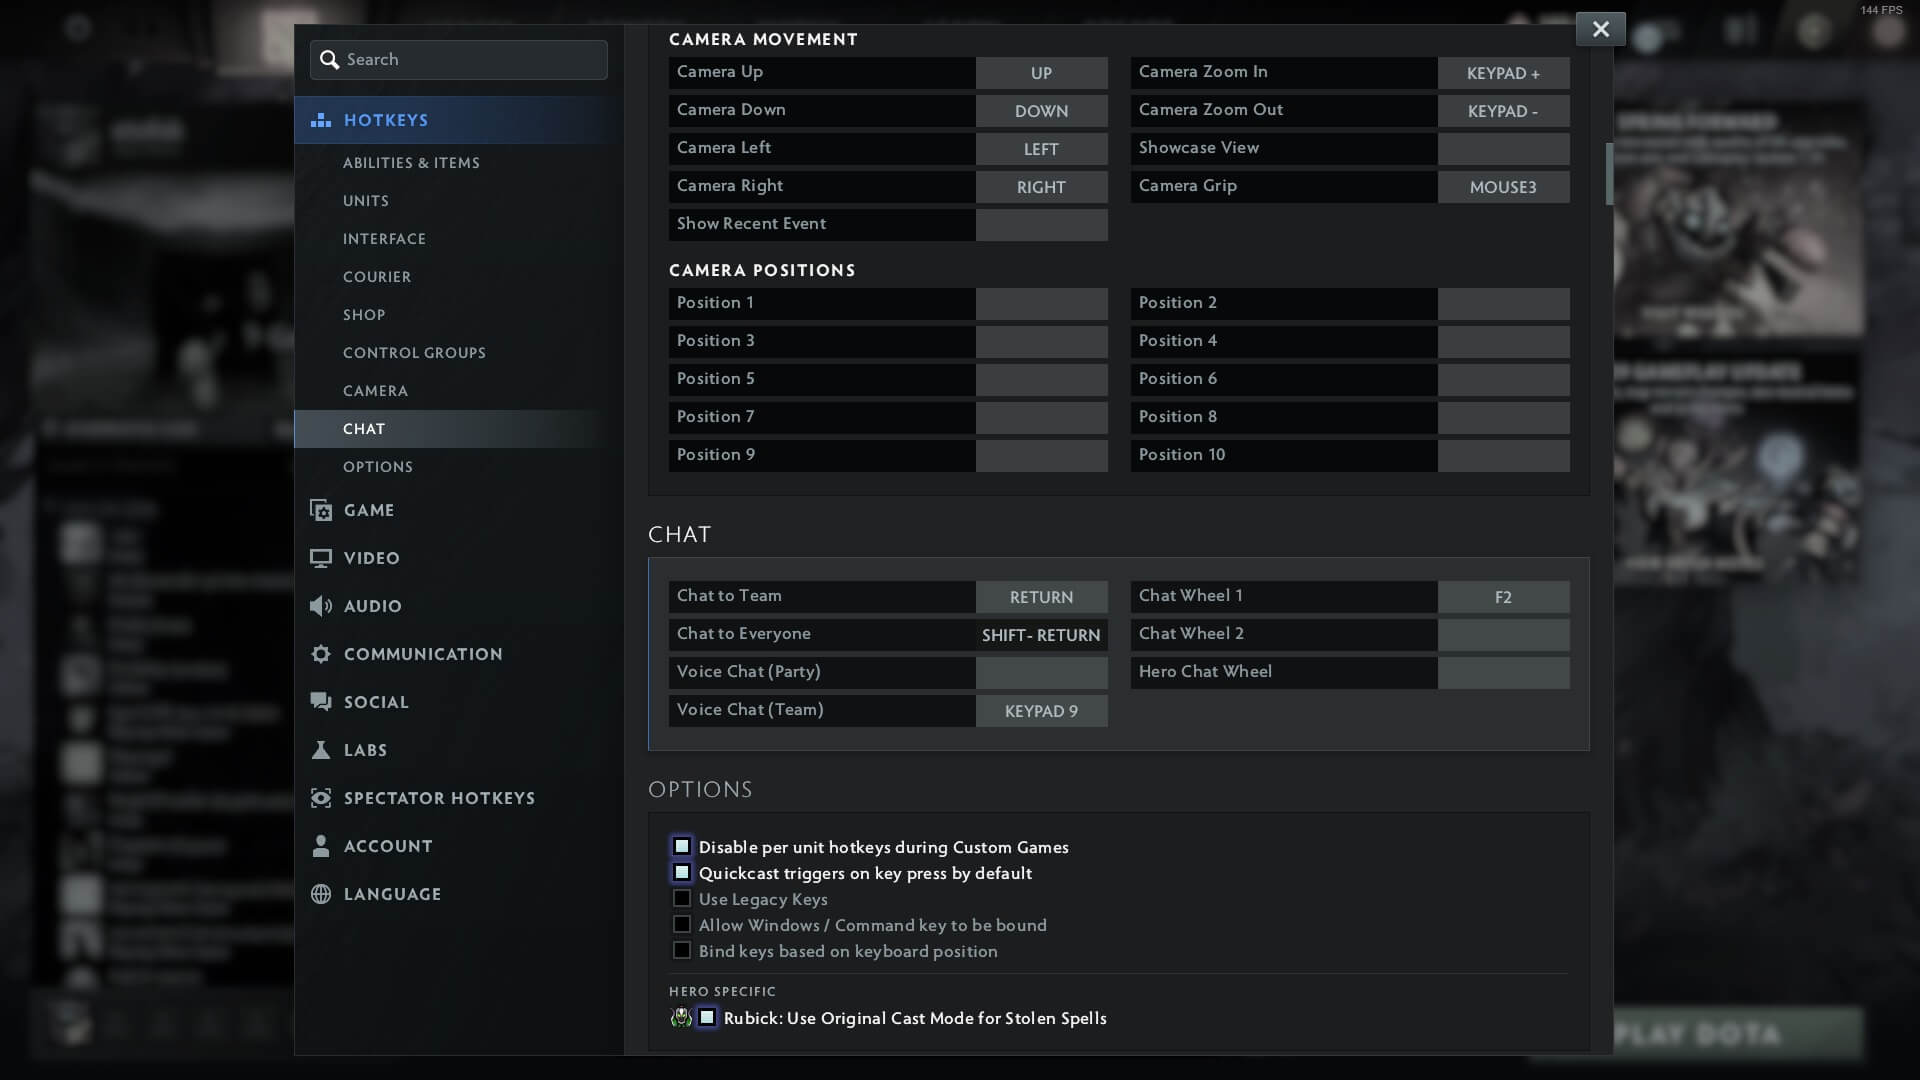
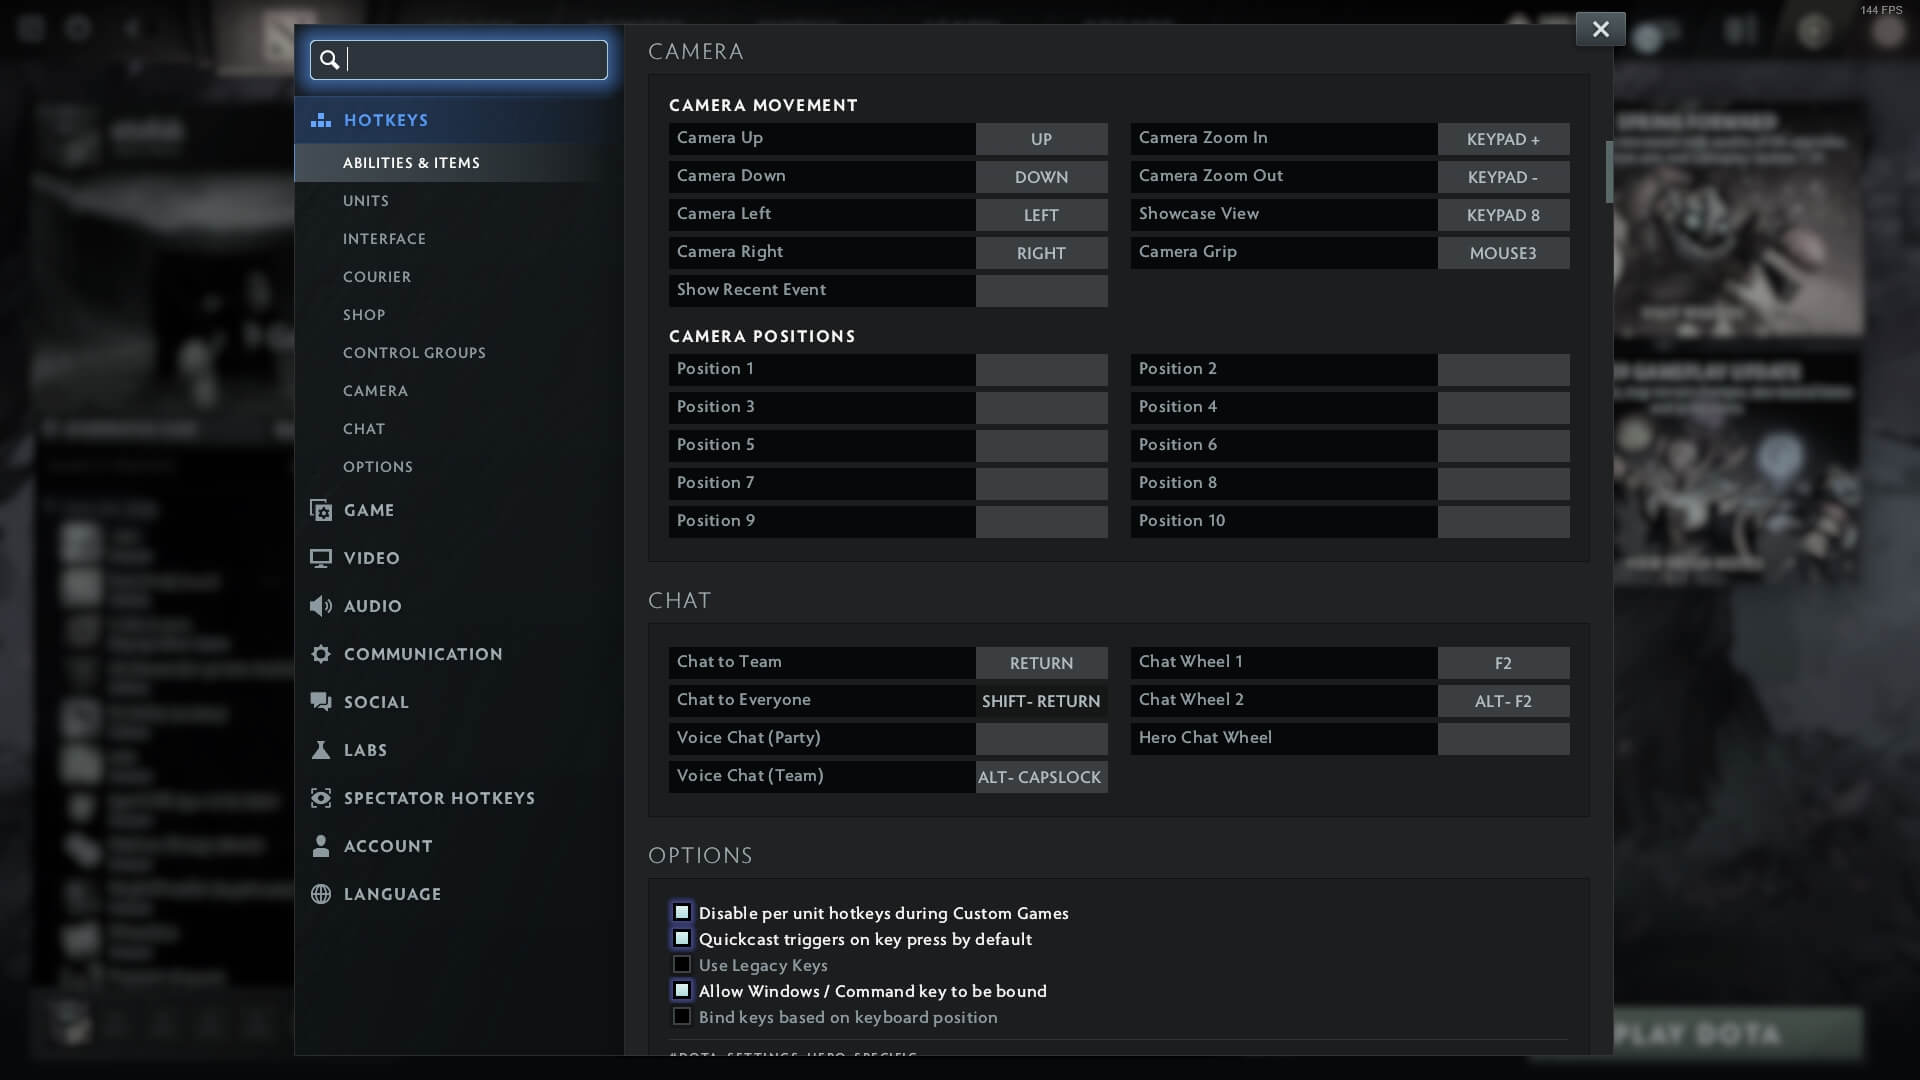
update

diff --git a/web/index.html b/web/index.html
@@ -116,11 +116,11 @@
         <div class="separator"></div>
 
         <li><b>Select Courier:</b> <kbd>F1</kbd></li>
-        <li><b>Quickbuy:</b> <kbd>B</kbd></li>
-        <li><b>Courier Deliver:</b> <kbd>N</kbd></li>
-        <li><b>Courier Burst:</b> <kbd>M</kbd></li>
-        <li><b>Buy Sticky:</b> <kbd>H</kbd></li>      
-        <li><b>Open Shop:</b> <kbd>Y</kbd></li>
+        <li><b>Open Shop:</b> <kbd>Alt</kbd>+<kbd>1</kbd></li>
+        <li><b>Quickbuy:</b> <kbd>Alt</kbd>+<kbd>2</kbd></li>
+        <li><b>Courier Deliver:</b> <kbd>Alt</kbd>+<kbd>3</kbd></li>
+        <li><b>Courier Burst:</b> <kbd>Alt</kbd>+<kbd>4</kbd></li>
+        <li><b>Buy Sticky:</b> <kbd>Y</kbd></li>      
 
         <div class="separator"></div>
 
@@ -684,47 +684,60 @@
 
       <h2>Shop & Courier<img class="heroicon" src="assets/images/neutralicon/shopkeeper.jpg" alt=""></h2>
              
-      <ul>
-        <li><b>Quickbuy:</b> <kbd>B</kbd></li>
-        <li><b>Courier Deliver:</b> <kbd>N</kbd></li>
-        <li><b>Courier Burst:</b> <kbd>M</kbd></li>
-        <li><b>Buy Sticky:</b> <kbd>H</kbd></li>      
-        <li><b>Open Shop:</b> <kbd>Y</kbd></li>
-        <li><b>Select Courier:</b> <kbd>F1</kbd></li>
-      </ul>
+      <p>
+        <span class="red">Limitation?</span><br><br>
+        A lot of keys don't work for <act>Courier Deliver</act> and <act>Courier Boost</act> while the 'Search' input element of <act>Shop</act> is in focus.
 
-      <p class="mt2">
-        <kbd>B</kbd><act>Quick<b>B</b>uy</act> is next to the right of <kbd>V</kbd><act>Neutral Item</act>
+        <img class="" src="assets/images/options/options-shop-search-bar.jpg" alt="">
+
+        Things like numbers <kbd>1</kbd><kbd>2</kbd><kbd>3</kbd> go into the 'Search' bar as text:<br><br>
+
+        <img class="" src="assets/images/options/options-shop-number-2.jpg" alt="">
+
+        <img class="" src="assets/images/options/options-shop-number-7.jpg" alt="">
+
+        However, there is no reason for keys like <kbd>F1</kbd><kbd>F2</kbd><kbd>F3</kbd> or their <kbd>Alt</kbd> variations to behave like this. But they do.
       </p>
 
       <p class="mt2">
-        <kbd>N</kbd><act>Courier Deliver</act> is next to the right of <kbd>B</kbd><act>Quick<b>B</b>uy</act><br>
+        This matters because we have to <b>close the shop window</b> before we can use these hotkeys.<br>
+        Alternatively, we can disable <act>Shop Search Gets Focus On Open</act><br>
+        I personally did the latter:
       </p>
 
-      <p class="mt2">
-        <kbd>M</kbd><act>Courier Boost</act> is next to the right of <kbd>N</kbd><act>Courier Deliver</act><br>
-      </p>      
-
-      <p class="mt2">
-        We've built the following pattern:<br>
-        <act>Quick<b>B</b>uy</act> → <act>Courier Deliver</act> → <act>Courier Boost</act></act>
-      </p>
+      <img class="" src="assets/images/options/options-shopsearchgetsfocusonopen.jpg" alt="">
 
       <div class="separator mt2"></div>      
 
       <p class="mt2">
-        <kbd>H</kbd><act>Buy Sticky</act> is above <kbd>B</kbd><act>Quick<b>B</b>uy</act><br>
-        Think of it as an appendix to the <kbd>B</kbd> → <kbd>N</kbd> → <kbd>M</kbd> pattern.</act>
+        Now, there are many different configurations for all-things-shop.<br>
+        This is what I'm currently using.<br>
       </p>
 
+      <ul>
+        <li><b>Select Courier:</b> <kbd>F1</kbd></li>
+        <li><b>Open Shop:</b> <kbd>Alt</kbd>+<kbd>1</kbd></li>
+        <li><b>Quickbuy:</b> <kbd>Alt</kbd>+<kbd>2</kbd></li>
+        <li><b>Courier Deliver:</b> <kbd>Alt</kbd>+<kbd>3</kbd></li>
+        <li><b>Courier Burst:</b> <kbd>Alt</kbd>+<kbd>4</kbd></li>
+        <li><b>Buy Sticky:</b> <kbd>Y</kbd></li>      
+      </ul>
+
       <p class="mt2">
-        <kbd>Y</kbd><act>Open Shop</act> is just a key that's left.<br>
-        Anything else either too far, or doesn't make sense to me.
+        In any case, we want the following pattern to be easy:<br>
+        <act>QuickBuy</act> → <act>Courier Deliver</act> → <act>Courier Boost</act>
       </p>
+
+      <div class="separator mt2"></div>
       
       <p class="mt2">
         <kbd>F1</kbd><act>Select Courier</act> is near control groups — makes sense as a "Select" key.<br>
-        <span class="smaller">But it can be any key in my opinion.</span><br>
+        In reality, it's pretty rare we need to control the courier, so the hotkey can be anything.
+      </p>
+            
+      <p class="mt2">
+        <kbd>Y</kbd><act>Buy Stick<b>y</b></act> is not used very often, but I like having hotkeys for everything.<br>
+        It used to be a much more frequent key when we weren't getting free <spell>Teleport Scrolls</spell><img class="heroicon" src="assets/images/itemicon/teleportscroll.jpg" alt=""> on death.
       </p>
       
       <div class="separator mt2"></div>
@@ -758,22 +771,20 @@
 
       <ul>
         <li><b>Chat Wheel:</b> <kbd>F2</kbd></li>
+        <li><b>Chat Wheel:</b> <kbd>F2</kbd>+<kbd>Alt</kbd></li>
       </ul>
-
-      <p>I never use <act>Chat Wheel 2</act>, which is probably a skill issue.</p>
-      <p>For it just set the next available <kbd>F-key</kbd> like <kbd>F3</kbd>.</p>
 
     </div>
 
     <!-- --- --- --- -->
     <div class="wrap-section-block">
 
-      <h2>Chat Wheel Setup</h2>
+      <h2>Chat Wheel 1 Setup</h2>
         
       <p>Over a decade I figured this is <b>the</b> required setup to play.</p>
       <p>I absolutely, desperately want these call-outs on hand.</p>
     
-      <img class="" src="assets/images/options/options-chat-wheel-full.jpg" alt=""> 
+      <img class="" src="assets/images/options/options-chat-wheel-full-01.jpg" alt=""> 
 
       <p class="mt2">Towards the top I have progressively "aggressive" call-outs.</p>
       <p>Towards the bottom I have progressively "defensive" call-outs.</p>
@@ -834,8 +845,22 @@
 
       <p class="mt2">Use with <act>Fight under tower</act>, <act>Get back</act> and <act>Group Up</act> to bring your team into safety.</p>
 
+    </div>   
+
+    <!-- --- --- --- -->
+    <div class="wrap-section-block">
+
+      <h2>Chat Wheel 2 Setup</h2>
+        
+      <p>Exclusively flavor and emotions sink.</p>
+      <p>Use whatever you like.</p>
+    
+      <img class="" src="assets/images/options/options-chat-wheel-full-02.jpg" alt=""> 
+
     </div>
 
+
+    <!-- -- -->
     <div class="wrap-section-block">
 
       <h2>Camera Grip & Edge Pan</h2>
@@ -844,7 +869,7 @@
 
       <p>Especially so, if your mouse sensitivity is low (<1000).</p>
 
-      <p class="mt2">I have <act>Edge Pan</act> disabled for years, and there are good reasons for it.</p>
+      <p class="mt2">I have <act>Edge Pan</act> disabled for years.</p>
 
       <img class="" src="assets/images/options/edgepan.jpg" alt=""> 
 
@@ -854,31 +879,40 @@
 
       <p class="mt2">Having <act>Edge Pan</act> disabled makes it easier to swing your cursor to the top edge of your screen without your camera moving in a disorienting way.</p>
 
-      <div class="separator mt2"></div>
+      <p class="mt2">
+        Now, I'm not <i>against</i> <act>Edge Pan</act>.<br>
+        I just don't use it.
+      </p>
+
+    </div>  
+
+
+    <div class="wrap-section-block">
+
+      <h2>Portrait Clicking</h2>
 
       <p class="mt2">Here's something very interesting.</p>
       
       <p class="mt2">You <b>can</b> use spells and items on <b>allies</b> via portrait clicks.</p>
-      <p>You <b>can't</b> use spells or items on <b>enemies</b>. That would be too ridiculous.</p>
-      <p class="mt2">What you can <b>also do</b> — is issue <act>Attack</act> commands.</p>
+      <p>You <b>can't</b> use spells or items on <b>enemies</b>. That would be ridiculous.</p>
+      <p class="mt2">What you <b>can also do</b> — is issue <act>Attack</act> commands.</p>
 
       <p class="mt2"><span class="red">Oversight?</span><br>
-        Not sure if intended: you <b>can</b> issue attack commands, but you <b>can't</b> "right click" top bar portraits (no effect).
+        Not sure if intended: you <b>can</b> issue attack commands, but you <b>can't</b> right-click top bar portraits (it selects).
       </p>
 
       <div class="separator mt2"></div>
 
-      <p class="mt2">"Attacking" an enemy hero <b>draws creep aggro</b>.</p>
-      <p>And you can draw creep aggro by "attacking" <b>any hero</b> — on any lane.</p>
+      <p class="mt2">Attacking an enemy hero <b>draws creep aggro</b>.</p>
+      <p>And you can draw creep aggro by issuing an attack on <b>any hero</b> — on any lane.</p>
 
-      <p class="mt2">This is obviously omega useful on<br>
+      <p class="mt2">This is obviously extremely useful on heroes that benefit from creeps attacking them:<br>
         <spell>Axe</spell><img class="heroicon" src="assets/images/heroicon/axe.jpg" alt=""> because of <spell>Counter Helix</spell><img class="heroicon" src="assets/images/spellicon/counterhelix.jpg" alt="">, <br>
         <spell>Timbersaw</spell><img class="heroicon" src="assets/images/heroicon/timbersaw.jpg" alt=""> because of <spell>Reactive Armor</spell><img class="heroicon" src="assets/images/spellicon/reactivearmor.jpg" alt=""> and <br>
         <spell>Legion Commander</spell><img class="heroicon" src="assets/images/heroicon/legioncommander.jpg" alt=""> because of <spell>Moment of Courage</spell><img class="heroicon" src="assets/images/spellicon/momentofcourage.jpg" alt="">.</p>
 
         <p class="mt2">
           Aggro manipulation is a very important mechanic in this game. <br>
-          But I digress.
         </p>
 
     </div>   
@@ -895,11 +929,11 @@
 
       <p class="mt2">You might want to use <act>Auto Attack: Always</act> in the early game for 'Cancel Spam' last hitting.</p>
 
-      <p class="mt2">I personally don't bother with it.</p>
+      <p><span class="smaller">I personally don't bother with it.</span></p>
 
       <img class="" src="assets/images/options/toggleautoattack.jpg" alt=""> 
 
-      <p>You definitely want to enable auto attack for illusion based heroes such as <spell>Phantom Lancer</spell><img class="heroicon" src="assets/images/heroicon/phantomlancer.jpg" alt=""> and <spell>Naga Siren</spell><img class="heroicon" src="assets/images/heroicon/nagasiren.jpg" alt="">, so that the illusions auto attack creeps.</p>
+      <p>You definitely want to enable auto attack for illusion based heroes such as <spell>Phantom Lancer</spell><img class="heroicon" src="assets/images/heroicon/phantomlancer.jpg" alt="">, <spell>Terrorblade</spell><img class="heroicon" src="assets/images/heroicon/terrorblade.jpg" alt=""> and <spell>Naga Siren</spell><img class="heroicon" src="assets/images/heroicon/nagasiren.jpg" alt="">, so that you and the illusions auto attack creeps.</p>
 
       <div class="separator mt2"></div>
 
